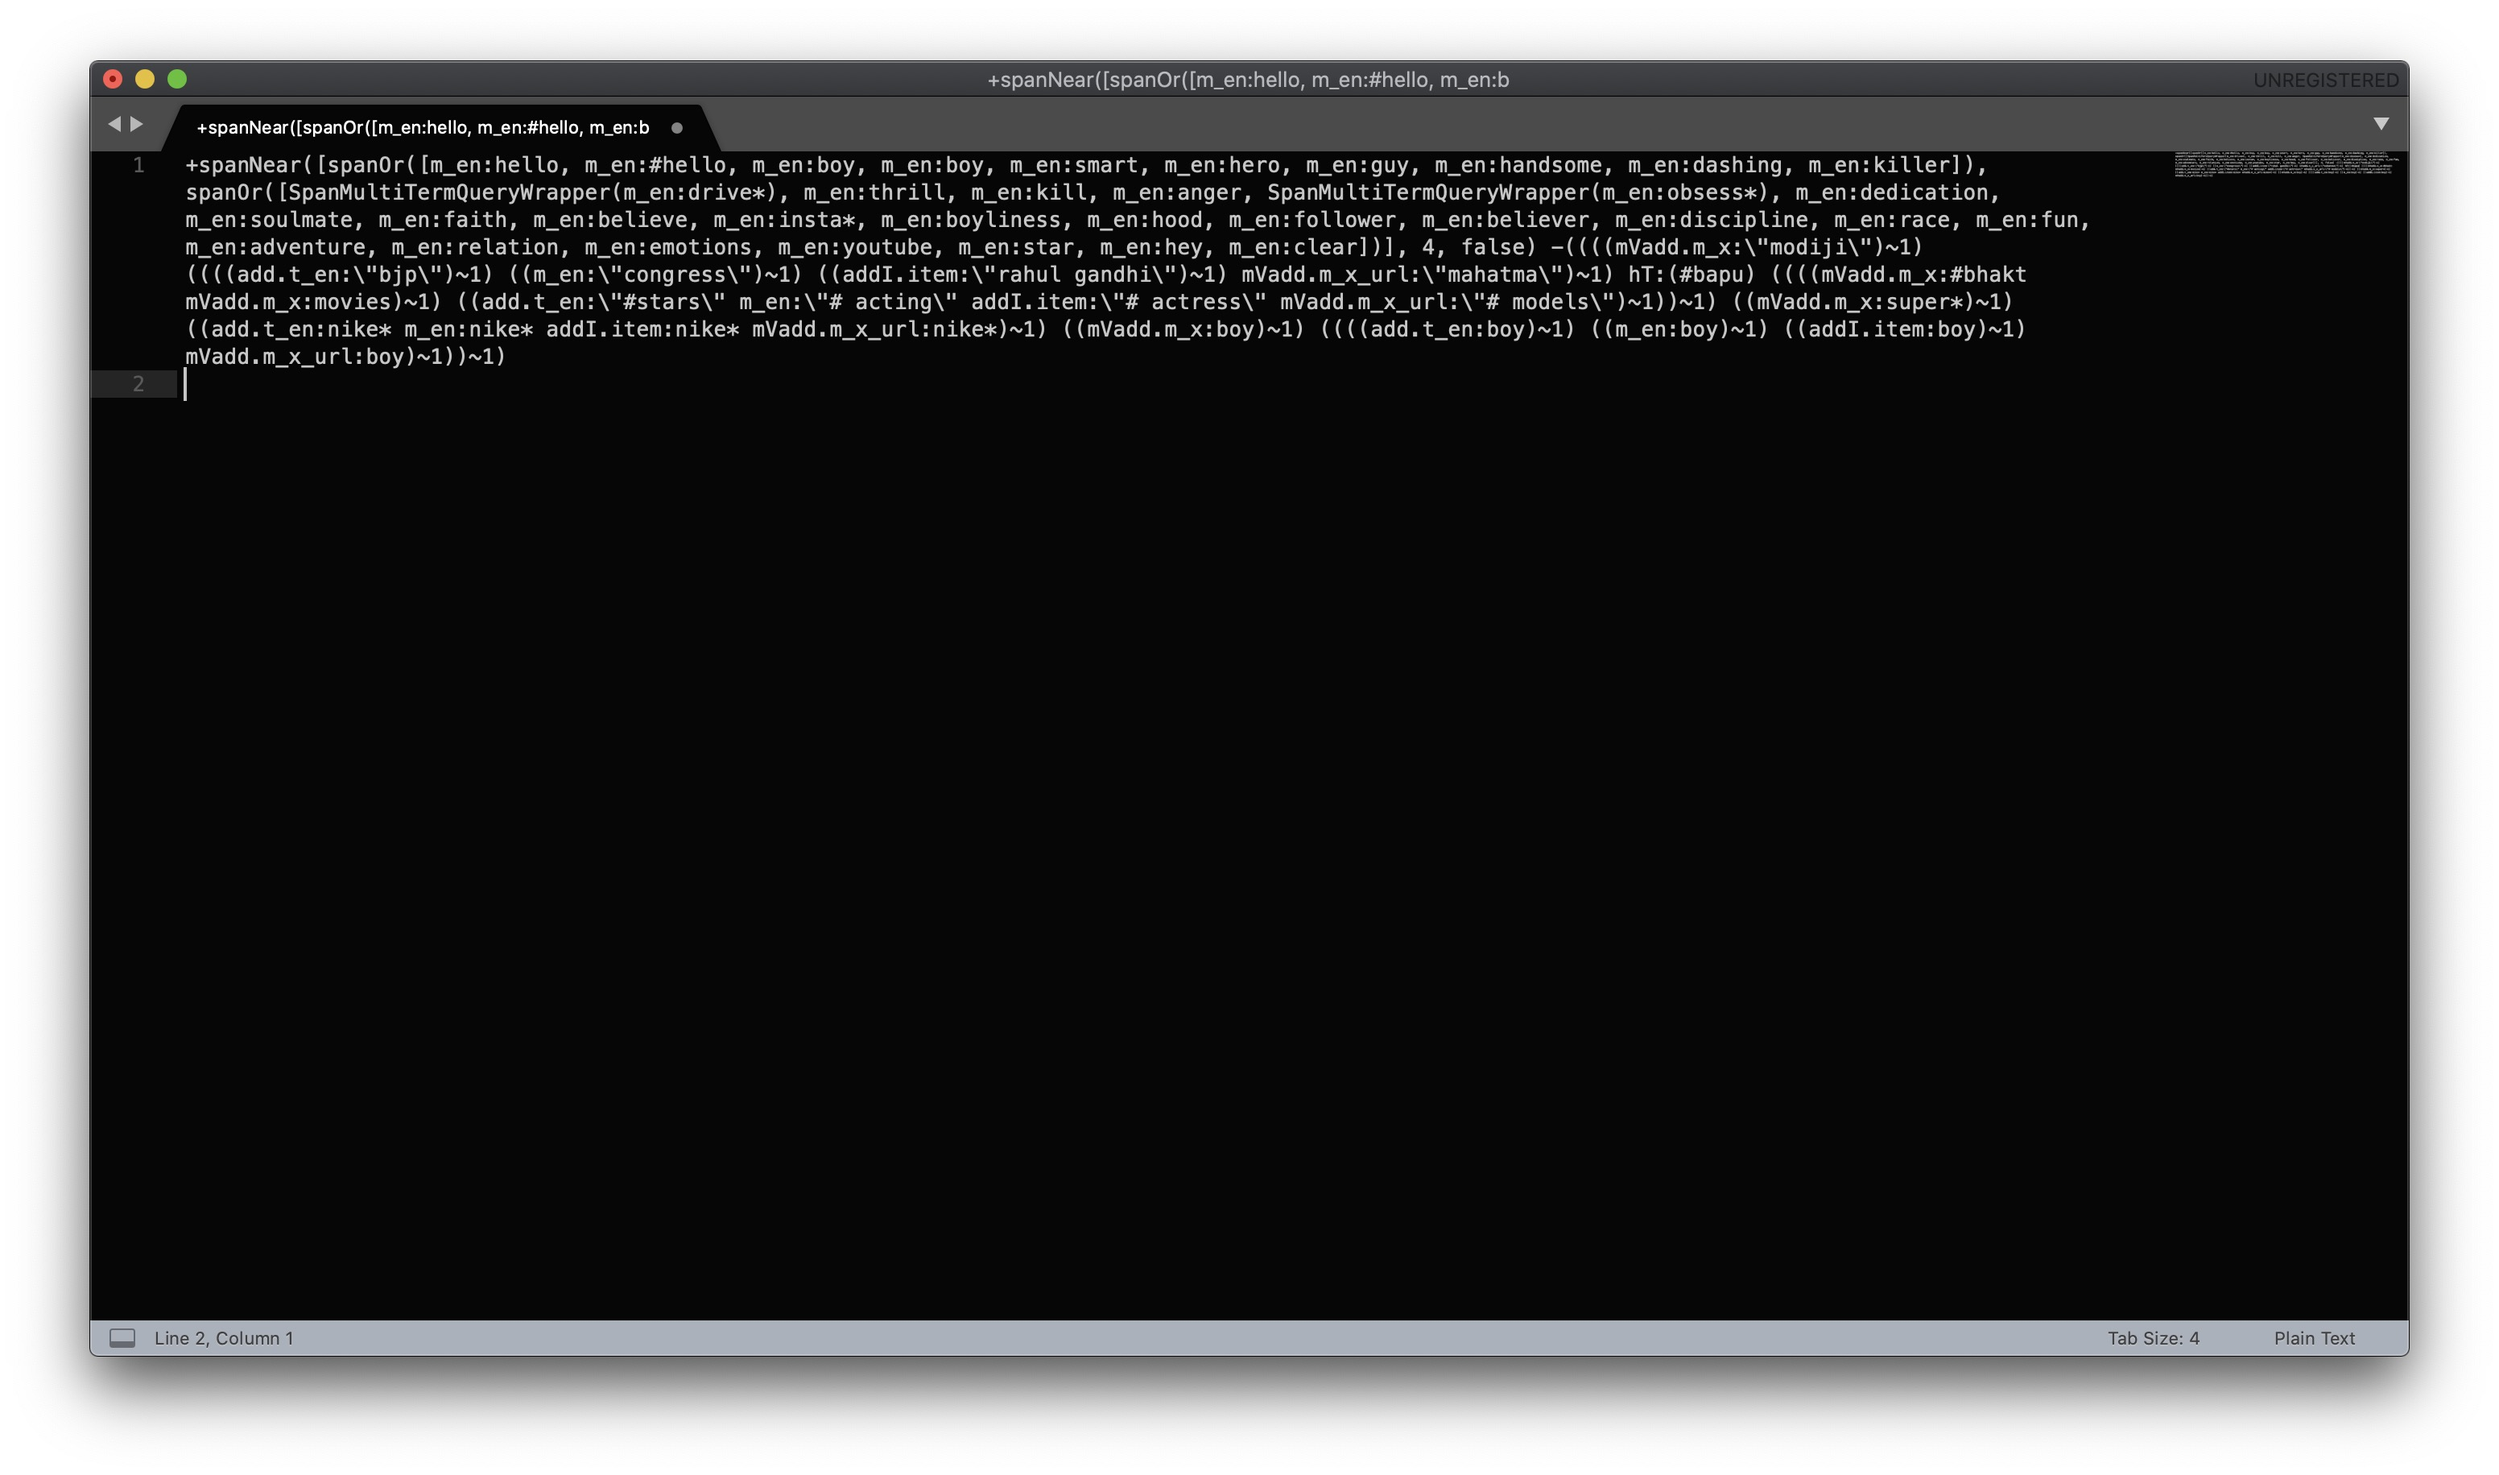
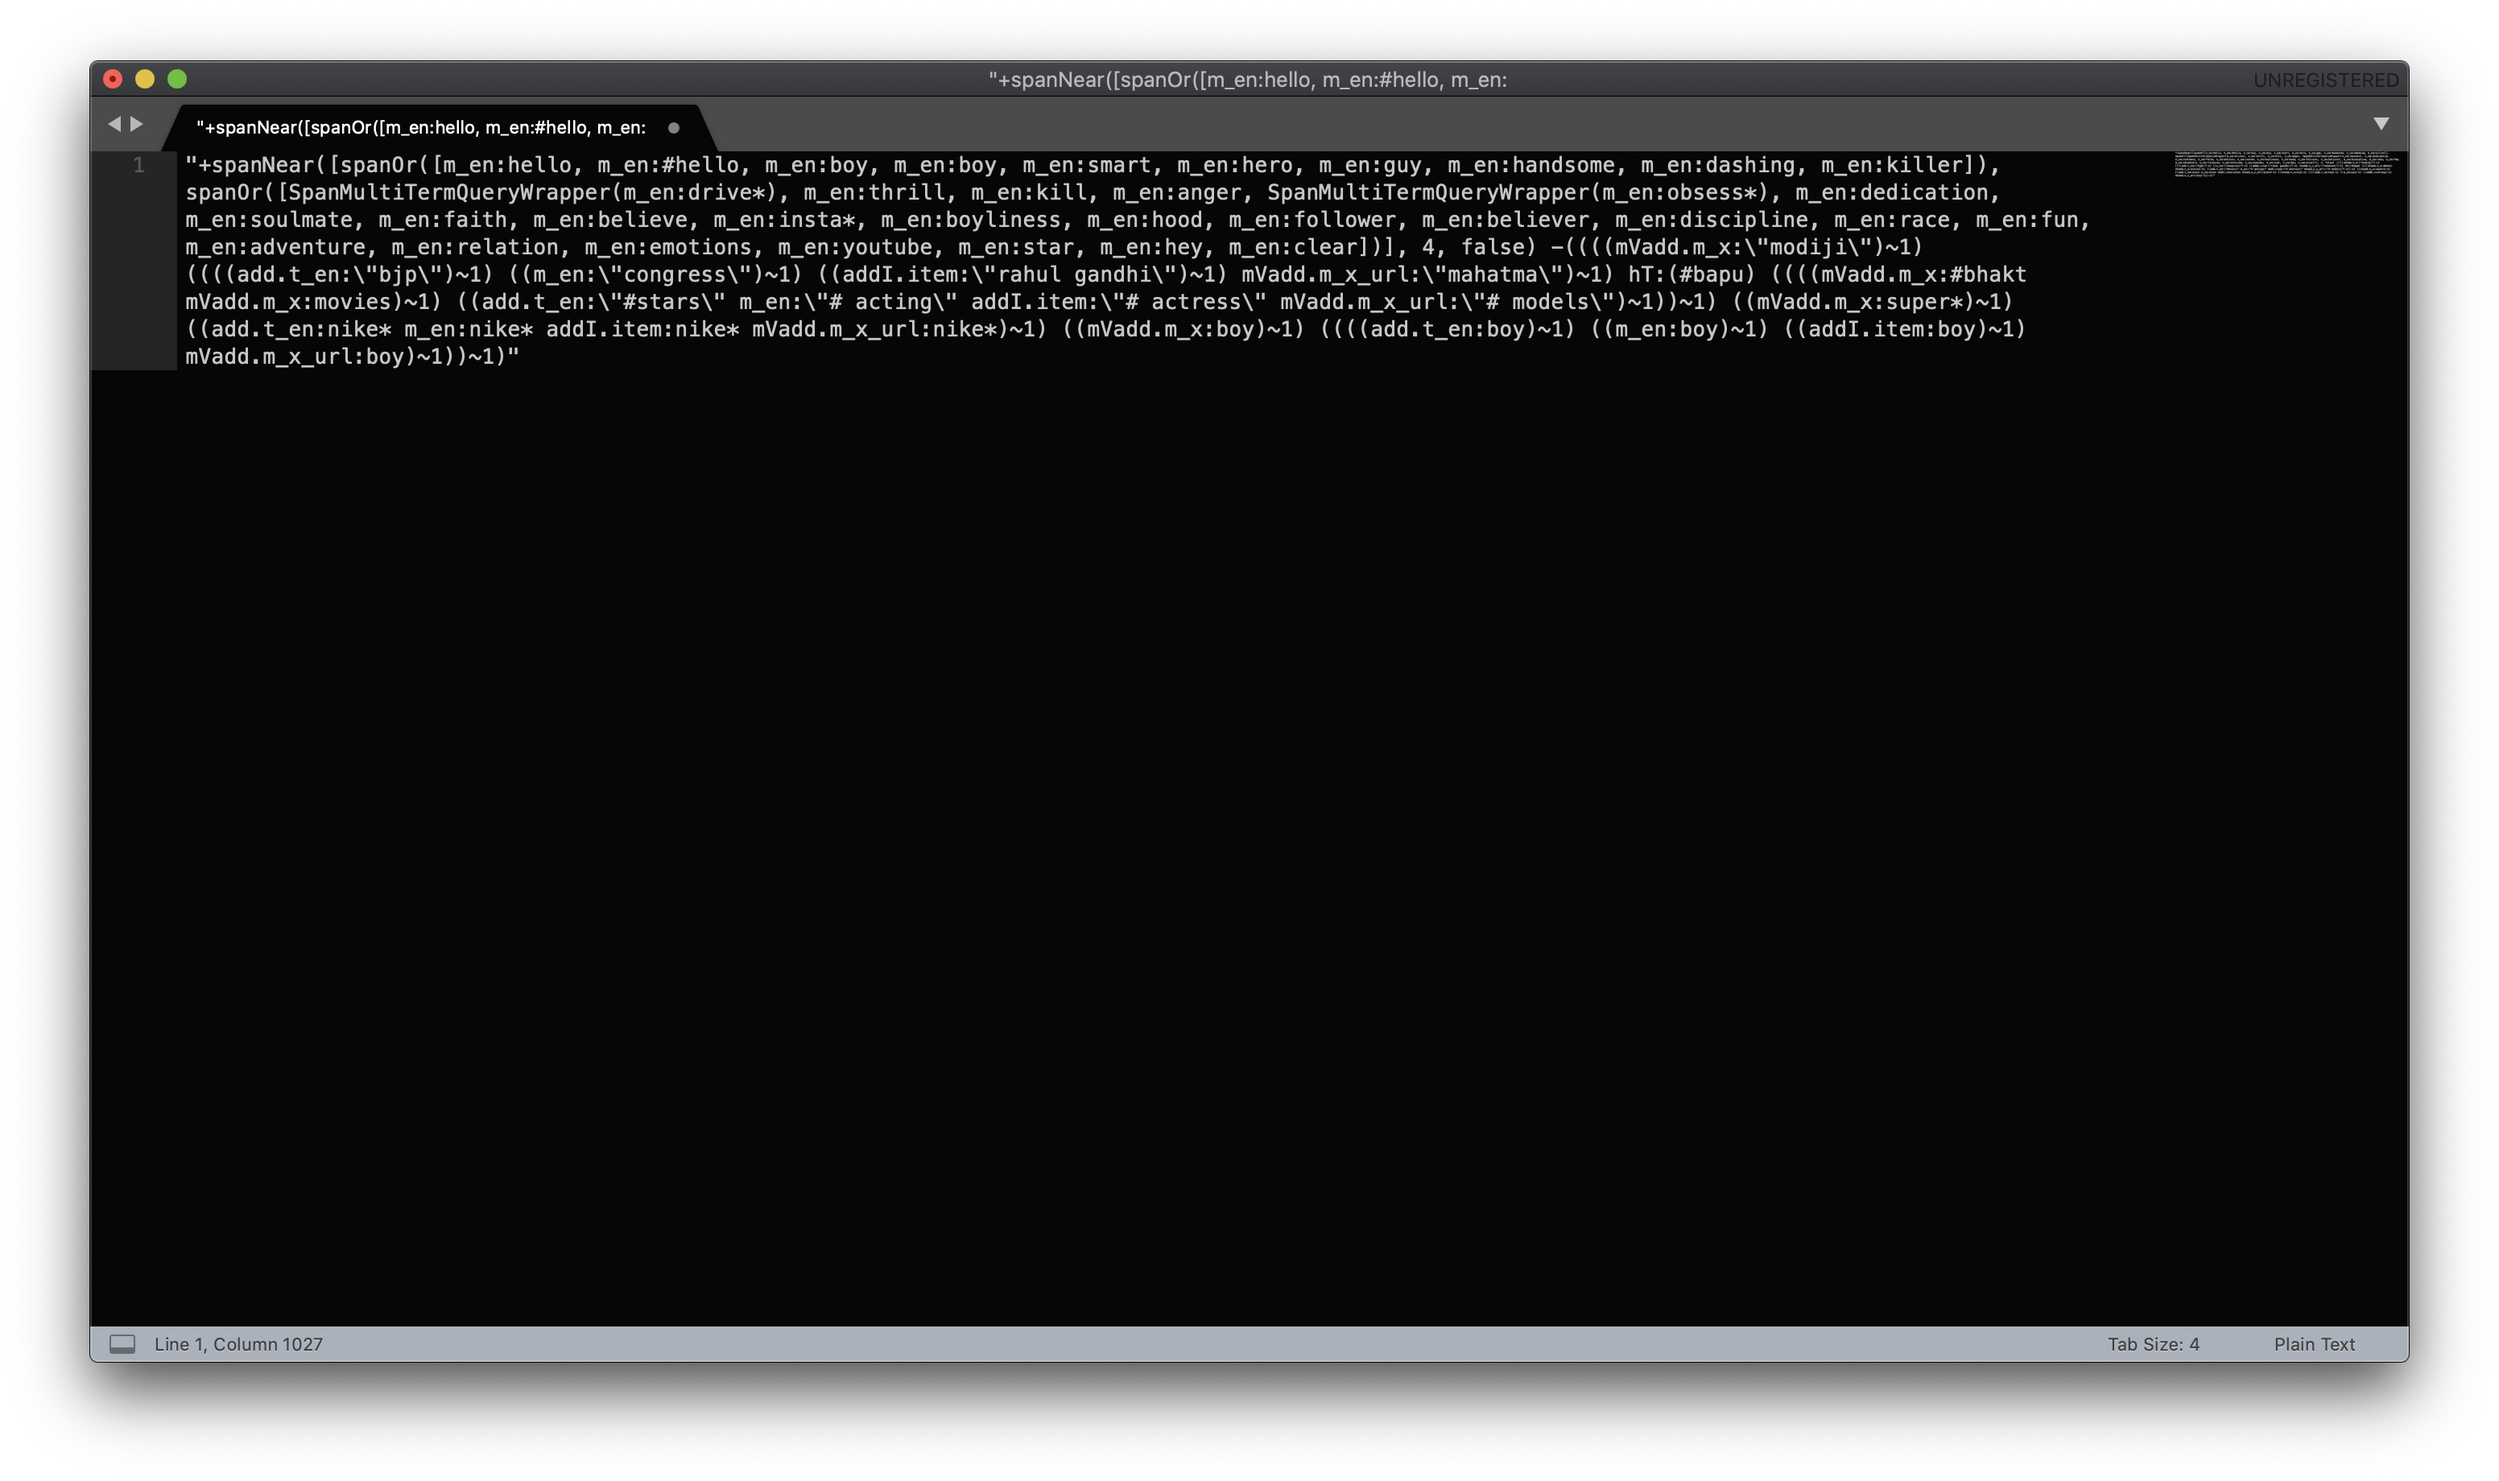
Code Refactored

diff --git a/algorithm.py b/algorithm.py
@@ -11,7 +11,7 @@ def format_lucene_query(query):
     # indicates whether the next character has to be escaped or not
     escape_on = False
 
-    # unquote entire query
+    # unquote the query
     if query[0] == '\"' and query[-1] == '\"' and len(query) >= 2:
         is_quoted = True
         query = query[1:-1]
@@ -44,13 +44,13 @@ def format_lucene_query(query):
             # move onto the next line but should not change the current block
             if query[idx] == UTILS.NEW_LINE:
                 result += UTILS.add_newline_tabs(tab_count, False)
-            # escaping character
+            # handling escape characters
             elif query[idx] == '\\' and is_quoted and idx < (len(query)-1):
                 result += query[idx+1]
                 escape_on = True
             continue
 
-        # remove exisiting spacing characters in the string
+        # handling spacing characters in the string
         if UTILS.is_spacing_character(query[idx]):
             if result[-1] == UTILS.TAB or result[-1] == UTILS.NEW_LINE:
                 continue
@@ -58,14 +58,17 @@ def format_lucene_query(query):
                 result += UTILS.add_newline_tabs(tab_count)
             continue
 
-        # add space after colon(:)
-        if query[idx] == ':':
-            result += ": "
+        # handling colon and comma
+        if UTILS.is_comma_or_colon(query[idx]):
+            result += query[idx]
+            result = result + \
+                (' ' if query[idx] ==
+                 ':' else UTILS.add_newline_tabs(tab_count))
             continue
 
+        # add a new block when opening bracket is encountered
         if query[idx] == ',' or UTILS.is_opening(query[idx]):
-            # add a new block when opening bracket is encountered
-            tab_count += int(UTILS.is_opening(query[idx]))
+            tab_count += 1
             result += (query[idx] + UTILS.add_newline_tabs(tab_count))
             continue
 
@@ -74,8 +77,8 @@ def format_lucene_query(query):
             # if the cursor has already moved onto the next line,
             # remove TAB from end as cursor needs to go back to the previous block
             # otherwise, move onto the next line, get onto the previous block
-            result = result[:-1] if len(result) > 1 and result[-1] == UTILS.TAB else "{}{}".format(
-                result, UTILS.add_newline_tabs(tab_count - 1))
+            result = result[:-1] if len(result) > 1 and result[-1] == UTILS.TAB else (
+                result + UTILS.add_newline_tabs(tab_count - 1))
             tab_count = max(tab_count - 1, 0)
             result += query[idx]
 

diff --git a/utils.py b/utils.py
@@ -43,7 +43,7 @@ def remove_multiple_spaces(query, is_quoted):
             continue
 
         if in_phrase:
-            # escaping character
+            # handling escape character
             if query[idx] == '\\' and is_quoted and idx < (len(query)-1):
                 query_new += query[idx+1]
                 idx += 1
